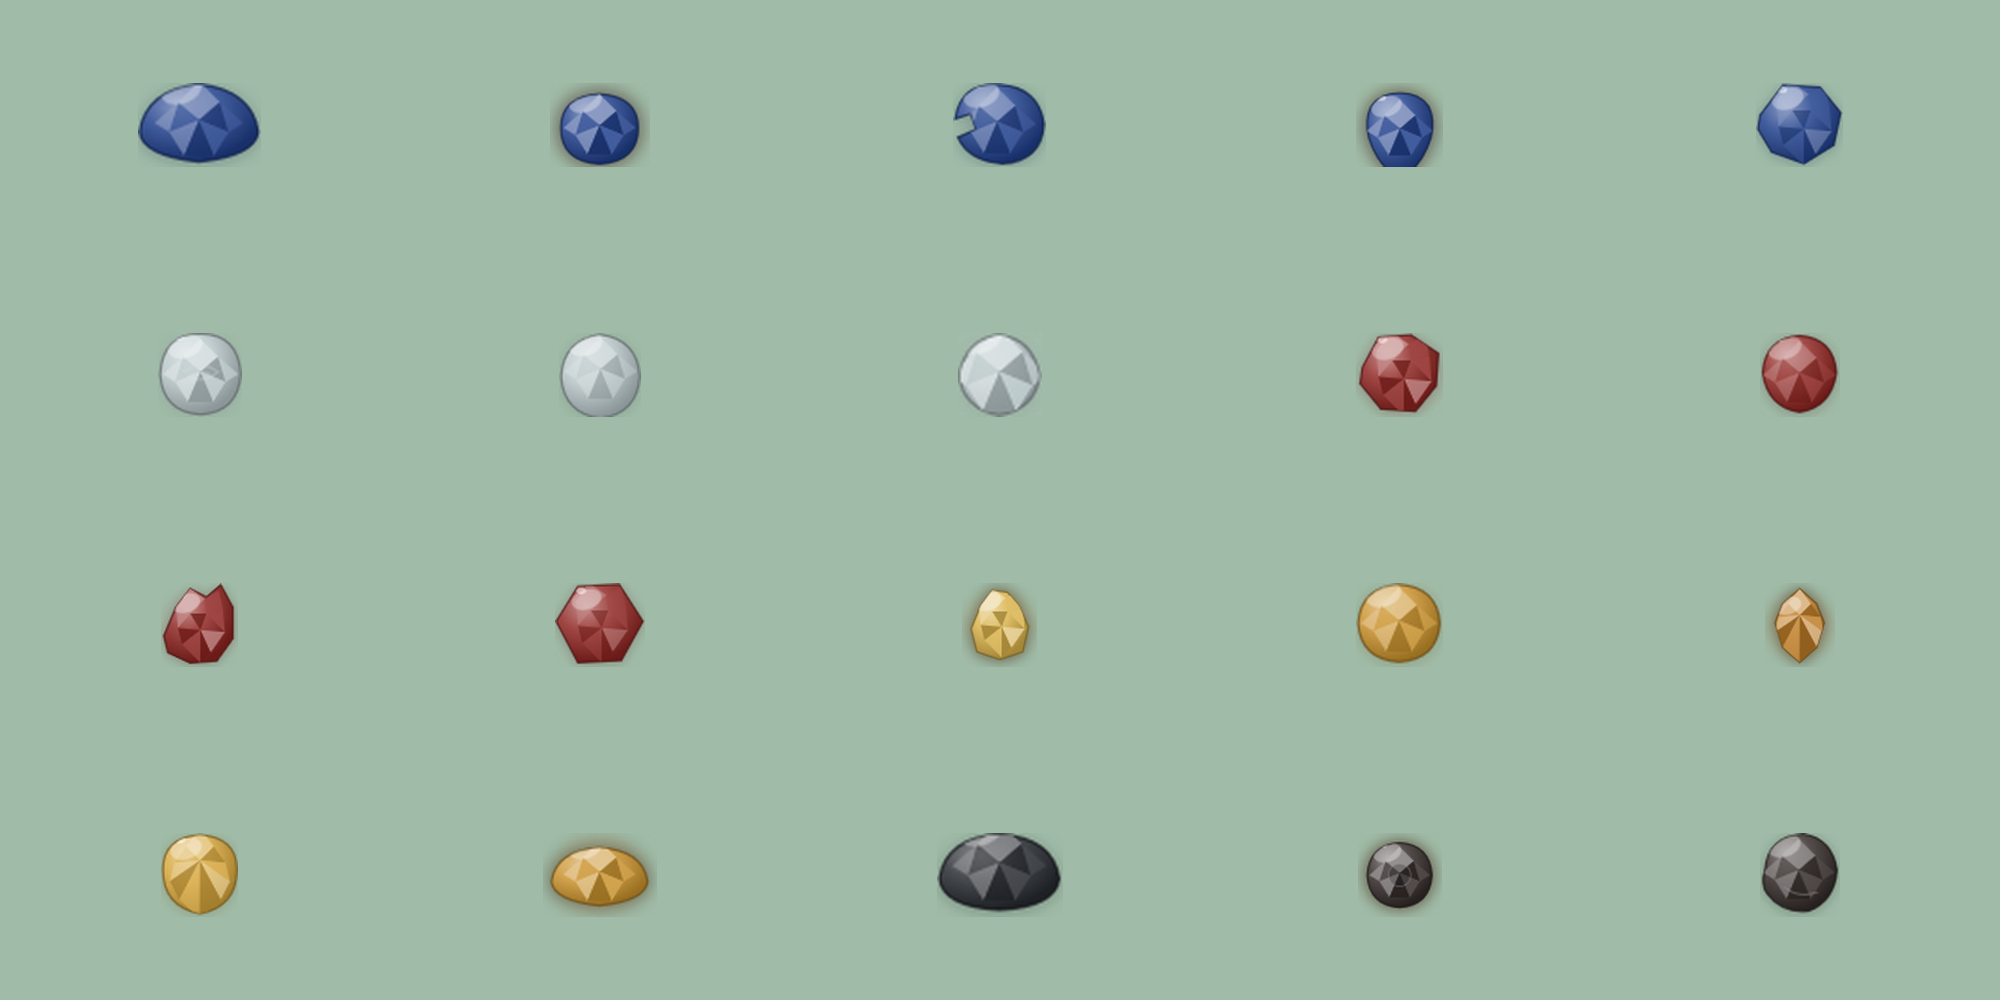
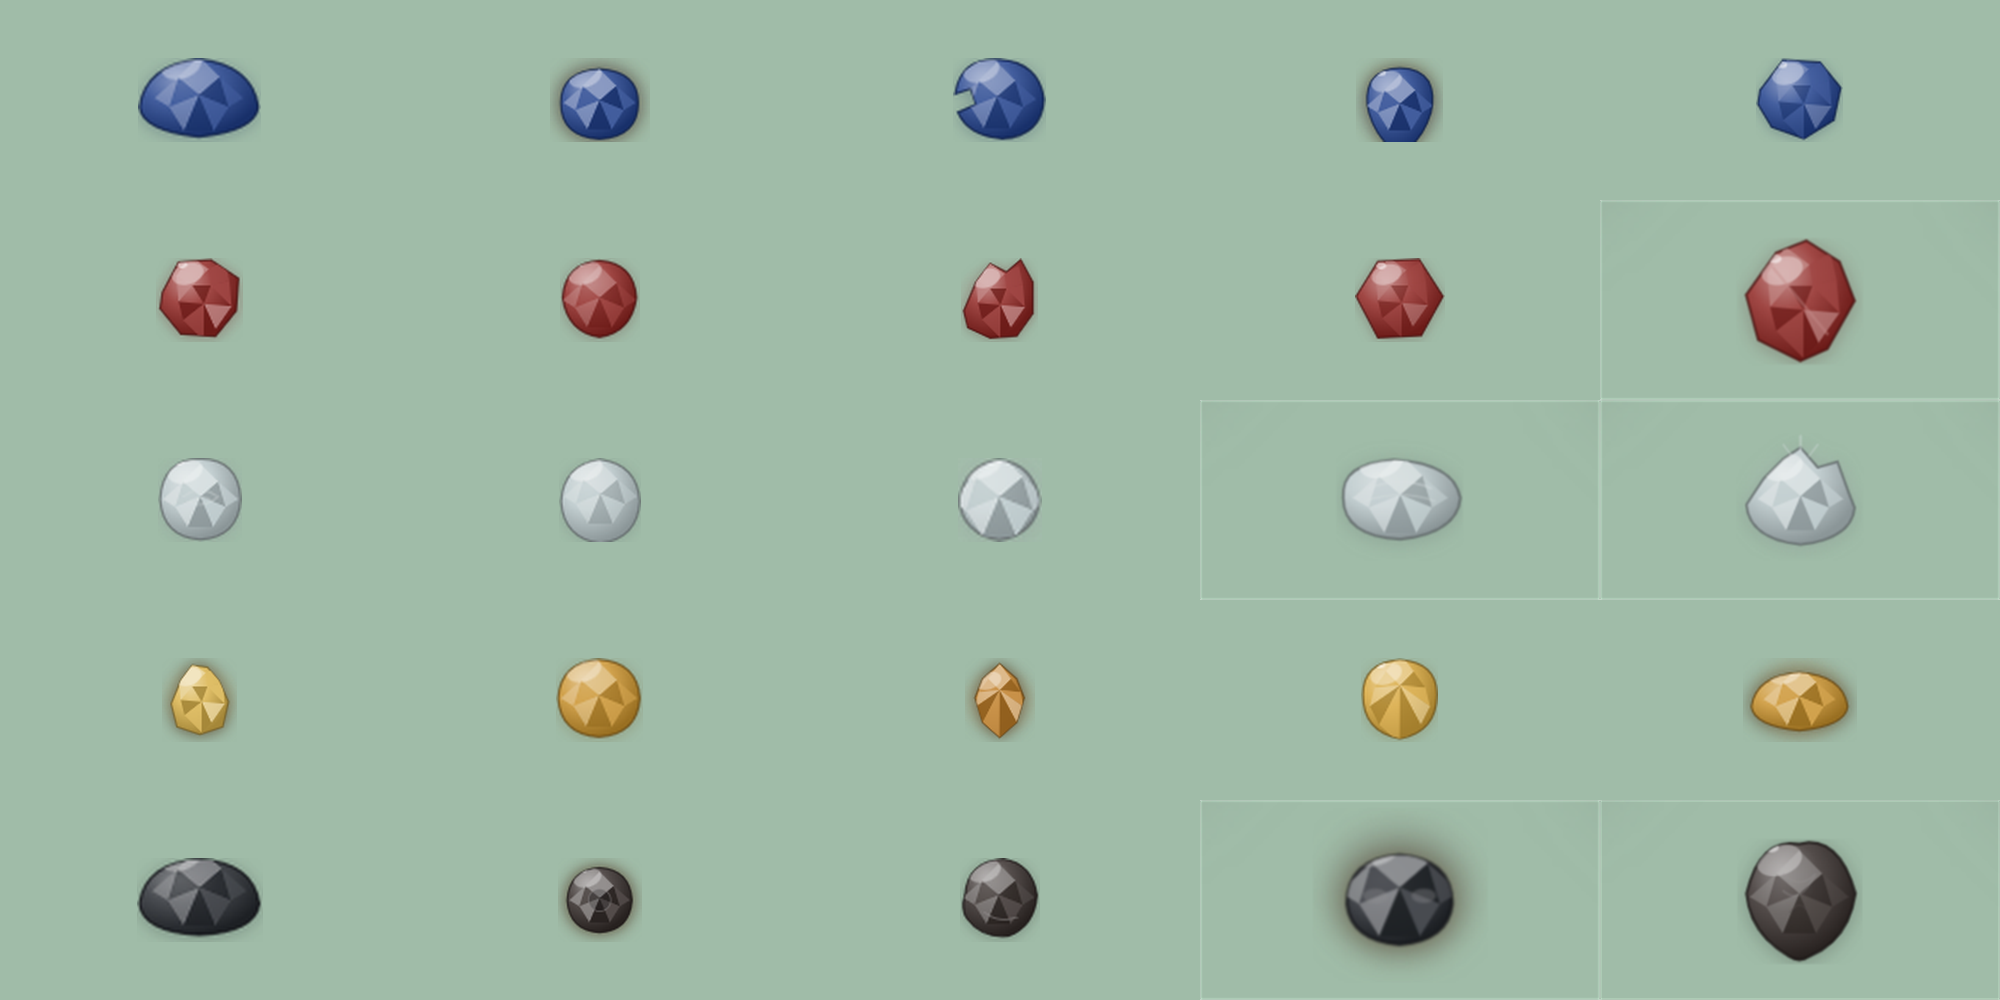
Update chatbot gem assets

diff --git a/2_avoha/ai/chatbot/main.py b/2_avoha/ai/chatbot/main.py
@@ -201,6 +201,22 @@ def is_video_url(text: str) -> bool:
     return False
 
 
+def is_audio_url(text: str) -> bool:
+    if not text or " " in text or "\n" in text:
+        return False
+    if not text.startswith("http"):
+        return False
+    lowered = text.lower()
+    audio_exts = (".mp3", ".m4a", ".aac", ".wav", ".ogg", ".oga", ".opus", ".amr", ".flac")
+    if any(ext in lowered for ext in audio_exts):
+        return True
+    if "talk.kakaocdn.net" in lowered and "/audio" in lowered:
+        return True
+    if "kakaocdn.net" in lowered and "audioplay" in lowered:
+        return True
+    return False
+
+
 def _db_get_today_count(user_id: str) -> int:
     """오늘(KST) 채집한 원석 수 (일상기록 제외). 에러 시 0 반환."""
     if not RAILWAY_DATABASE_URL:
@@ -231,10 +247,13 @@ EMOTION_TO_GEM = {
     "우울함": "우울함 조각", "외로움": "외로움 조각", "상실감": "상실감 조각",
     "서러움": "서러움 조각", "실망감": "실망감 조각",
     "걱정": "걱정 조각", "긴장감": "긴장감 조각", "위축감": "위축감 조각",
+    "초조": "초조 조각", "공포": "공포 조각",
     "짜증": "짜증 조각", "억울함": "억울함 조각", "화남": "화남 조각", "적대감": "적대감 조각",
+    "경멸": "경멸 조각",
     "즐거움": "즐거움 조각", "감사함": "감사함 조각", "설렘": "설렘 조각",
     "뿌듯함": "뿌듯함 조각", "편안함": "편안함 조각",
     "무기력함": "무기력함 조각", "공허함": "공허함 조각", "후회": "후회 조각",
+    "부끄러움": "부끄러움 조각", "혼란스러움": "혼란스러움 조각",
 }
 GEM_TO_EMOTION = {v: k for k, v in EMOTION_TO_GEM.items()}
 
@@ -269,10 +288,10 @@ CHATBOT_GEM_TO_EMOTION_CODE: dict[str, str] = {
 
 EMOTION_CATEGORIES = {
     "슬픔 계열": ["우울함", "외로움", "상실감", "서러움", "실망감"],
-    "불안/두려움 계열": ["걱정", "긴장감", "위축감"],
-    "분노 계열": ["짜증", "억울함", "화남", "적대감"],
+    "불안/두려움 계열": ["걱정", "긴장감", "위축감", "초조", "공포"],
+    "분노 계열": ["짜증", "억울함", "화남", "적대감", "경멸"],
     "기쁨/긍정 계열": ["즐거움", "감사함", "설렘", "뿌듯함", "편안함"],
-    "복잡/모호 계열": ["무기력함", "공허함", "후회"],
+    "복잡/모호 계열": ["무기력함", "공허함", "후회", "부끄러움", "혼란스러움"],
 }
 
 EMOTION_TO_REFLECTION_CATEGORY = {
@@ -315,6 +334,12 @@ VIDEO_NOT_SUPPORTED_MESSAGE = (
     "대신 한 줄 글이나 사진으로 적어주시면\n"
     "오늘의 감정 원석을 같이 찾아드릴게요. ✨"
 )
+AUDIO_NOT_SUPPORTED_MESSAGE = (
+    "음성으로 마음을 담아주셨네요. \n\n"
+    "아직은 음성을 함께 들여다보지는 못해요. \n"
+    "대신 한 줄 글이나 사진으로 적어주시면\n"
+    "오늘의 감정 원석을 같이 찾아드릴게요. ✨"
+)
 
 WEB_URL = "https://frontend-production-09f81.up.railway.app/login"
 _IMG_BASE = f"{ASSET_BASE_URL}/gems/"
@@ -330,10 +355,13 @@ GEM_IMAGE_URL = {
     "걱정 조각":     _IMG_BASE + "worry.png",
     "긴장감 조각":   _IMG_BASE + "tension.png",
     "위축감 조각":   _IMG_BASE + "timidity.png",
+    "초조 조각":     _IMG_BASE + "nervousness.png",
+    "공포 조각":     _IMG_BASE + "fear.png",
     "짜증 조각":     _IMG_BASE + "irritation.png",
     "억울함 조각":   _IMG_BASE + "resentment.png",
     "화남 조각":     _IMG_BASE + "anger.png",
     "적대감 조각":   _IMG_BASE + "hostility.png",
+    "경멸 조각":     _IMG_BASE + "contempt.png",
     "즐거움 조각":   _IMG_BASE + "joy.png",
     "감사함 조각":   _IMG_BASE + "gratitude.png",
     "설렘 조각":     _IMG_BASE + "flutter.png",
@@ -342,11 +370,13 @@ GEM_IMAGE_URL = {
     "무기력함 조각": _IMG_BASE + "lethargy.png",
     "공허함 조각":   _IMG_BASE + "emptiness.png",
     "후회 조각":     _IMG_BASE + "regret.png",
+    "부끄러움 조각": _IMG_BASE + "shame.png",
+    "혼란스러움 조각": _IMG_BASE + "confusion.png",
 }
 
 
-def _gem_image_url(gem: str) -> str:
-    return GEM_IMAGE_URL.get(gem) or DEFAULT_CARD_IMAGE
+def _thumbnail(url: str | None) -> dict:
+    return {"thumbnail": {"imageUrl": url}} if url else {}
 
 BASE_QUICK_REPLIES = [
     {"label": "단순 모드", "action": "message", "messageText": "단순모드"},
@@ -556,6 +586,16 @@ def classify_emotion(
         "   '행복하다', '좋다', '기분 좋다', '신난다'는 즐거움으로 분류해.\n"
         "   '힘들다', '힘들어'는 단순 사실이 아니라 감정/상태 표현으로 보고 문맥에 따라 무기력함, 걱정, 후회 등으로 분류해.\n"
         "   예: '지금 너무 많이 먹어서 행복하고 힘들어' → 즐거움, 무기력함\n"
+        "   '눈물이 날 것 같다', '울컥하다'는 우울함보다 서러움 후보로 우선 검토해.\n"
+        "   '뒤처진 것 같다', '나만 못한 것 같다', '내가 작아진다'는 위축감 후보로 우선 검토해.\n"
+        "   '마음이 무겁다', '가라앉는다'는 걱정보다 우울함/공허함 후보로 우선 검토해.\n"
+        "   '안 괜찮다', '괜찮다고 했지만 사실 아니다'는 서러움/우울함 후보로 검토해.\n"
+        "   '억울함'은 부당함, 왜 나만, 내 잘못이 아닌데 같은 단서가 있을 때만 선택해.\n"
+        "   '하찮게 느껴진다', '깔보게 된다', '정떨어진다', '한심하다'는 경멸 후보로 검토해.\n"
+        "   '조마조마하다', '안절부절못하다', '가만히 못 있겠다'는 초조 후보로 검토해.\n"
+        "   '무섭다', '두렵다', '공포스럽다', '겁난다'는 공포 후보로 검토해.\n"
+        "   '창피하다', '민망하다', '쪽팔리다'는 부끄러움 후보로 검토해.\n"
+        "   '뭐가 뭔지 모르겠다', '머리가 복잡하다', '갈피를 못 잡겠다'는 혼란스러움 후보로 검토해.\n"
         "4. 사용자 문장에는 오타, 받침 실수, 음절 치환이 있을 수 있어. 명백한 오타는 문맥상 자연스러운 한국어로 보정해서 해석해.\n"
         "   예: '힘덜어'는 '힘들어'로 해석해.\n"
         f"감정 목록: {emotion_list}\n"
@@ -659,6 +699,15 @@ def supervisor_check_classification(
         "- '행복하다', '좋다', '기분 좋다', '신난다'는 즐거움 감정 단서로 본다.\n"
         "- '힘들다', '힘들어'는 단순 사실이 아니라 감정/상태 표현으로 보고 문맥에 따라 무기력함, 걱정, 후회 등으로 검토한다.\n"
         "- 예: '지금 너무 많이 먹어서 행복하고 힘들어'는 감정 맥락이 있으므로 즐거움과 무기력함 후보를 검토한다.\n"
+        "- '눈물이 날 것 같다', '울컥하다'는 우울함보다 서러움 후보로 우선 검토한다.\n"
+        "- '뒤처진 것 같다', '나만 못한 것 같다', '내가 작아진다'는 위축감 후보로 우선 검토한다.\n"
+        "- '마음이 무겁다', '가라앉는다'는 걱정보다 우울함/공허함 후보로 우선 검토한다.\n"
+        "- '억울함'은 부당함, 왜 나만, 내 잘못이 아닌데 같은 단서가 있을 때만 선택한다.\n"
+        "- 경멸은 하찮게 느낌, 깔봄, 정떨어짐, 한심함 단서가 있을 때 검토한다.\n"
+        "- 초조는 조마조마함, 안절부절못함, 가만히 못 있겠음 단서가 있을 때 검토한다.\n"
+        "- 공포는 무서움, 두려움, 공포스러움, 겁남 단서가 있을 때 검토한다.\n"
+        "- 부끄러움은 창피함, 민망함, 쪽팔림 단서가 있을 때 검토한다.\n"
+        "- 혼란스러움은 뭐가 뭔지 모름, 머리가 복잡함, 갈피를 못 잡음 단서가 있을 때 검토한다.\n"
         "- 발화에 감정 맥락이 있는데 '일상기록' 또는 '기록아님'으로 빠졌는지 확인한다.\n"
         "- 단순 사실 나열인데 감정 원석으로 과잉 분류했는지 확인한다.\n"
         "- 허용 목록 밖의 값은 실패로 본다.\n"
@@ -1342,15 +1391,16 @@ def kakao_save_complete(gem: str, today_count: int, user_id: str = "", alert_msg
     )
     if alert_msg:
         description += f"\n\n{alert_msg.lstrip()}"
+    card = {
+        "title": f"{display}{_josa_eul(display)} 수집했어요!",
+        "description": description,
+        "buttons": [{"action": "webLink", "label": "조각 기록들 살펴보기", "webLinkUrl": link_url}],
+    }
+    card.update(_thumbnail(GEM_IMAGE_URL.get(gem)))
     return {
         "version": "2.0",
         "template": {
-            "outputs": [{"basicCard": {
-                "title": f"{display}{_josa_eul(display)} 수집했어요!",
-                "description": description,
-                "thumbnail": {"imageUrl": _gem_image_url(gem)},
-                "buttons": [{"action": "webLink", "label": "조각 기록들 살펴보기", "webLinkUrl": link_url}],
-            }}],
+            "outputs": [{"basicCard": card}],
             "quickReplies": BASE_QUICK_REPLIES,
         },
     }
@@ -1768,7 +1818,7 @@ def kakao_today_records(user_id: str) -> dict:
             f"지금까지 총 {emotion_count}개의 감정원석과 {daily_count}개의 일상을 저장했어요.\n\n"
             "웹에서 오늘까지 쌓아온 모든 기록과 분석을 만나보세요!"
         ),
-        "thumbnail": {"imageUrl": ALL_GEMS_IMAGE},
+        "thumbnail": {"imageUrl": MASCOT_IMAGE},
         "buttons": [{"action": "webLink", "label": "웹 방문하기", "webLinkUrl": link_url}],
     }]
 
@@ -1790,16 +1840,17 @@ def kakao_today_records(user_id: str) -> dict:
             image_url = record["image_url"] or MASCOT_IMAGE
         else:
             title = f"{record['saved_time']} {gem}"
-            image_url = record["image_url"] or _gem_image_url(gem)
+            image_url = record["image_url"] or GEM_IMAGE_URL.get(gem)
         description = _truncate_text(record["record_text"], 160)
         if not description:
             description = "사진으로 저장한 기록이에요." if record["has_photo"] else "내용 없이 저장된 기록이에요."
-        items.append({
+        item = {
             "title": title.strip(),
             "description": description,
-            "thumbnail": {"imageUrl": image_url},
             "buttons": [{"action": "webLink", "label": "웹 방문하기", "webLinkUrl": link_url}],
-        })
+        }
+        item.update(_thumbnail(image_url))
+        items.append(item)
 
     return {
         "version": "2.0",
@@ -2349,12 +2400,12 @@ async def webhook(request: Request, background_tasks: BackgroundTasks):
                 "outputs": [
                     {"simpleText": {"text": (
                         "기록을 통해 채집할 수 있는 감정 원석들이에요.\n\n"
-                        "감정 원석은 총 20종,\n크게 다섯 가지 결을 가지고 있어요.\n\n"
+                        "감정 원석은 총 25종,\n크게 다섯 가지 결을 가지고 있어요.\n\n"
                         "💙 슬픔의 결\n우울함 조각 · 외로움 조각 · 상실감 조각 · 서러움 조각 · 실망감 조각\n위로받고 싶은 일상의 순간들이 담겨요.\n\n"
-                        "🤍 불안/두려움의 결\n걱정 조각 · 긴장감 조각 · 위축감 조각\n마음이 팽팽해지는 순간들이 담겨요.\n\n"
-                        "🧡 분노의 결\n짜증 조각 · 억울함 조각 · 화남 조각 · 적대감 조각\n뜨겁고 단단한 감정들이 담겨요.\n\n"
+                        "🤍 불안/두려움의 결\n걱정 조각 · 긴장감 조각 · 위축감 조각 · 초조 조각 · 공포 조각\n마음이 팽팽해지는 순간들이 담겨요.\n\n"
+                        "🧡 분노의 결\n짜증 조각 · 억울함 조각 · 화남 조각 · 적대감 조각 · 경멸 조각\n뜨겁고 단단한 감정들이 담겨요.\n\n"
                         "💛 기쁨/긍정의 결\n즐거움 조각 · 감사함 조각 · 설렘 조각 · 뿌듯함 조각 · 편안함 조각\n따뜻하고 빛나는 순간들이 담겨요.\n\n"
-                        "🩶 복잡/모호의 결\n무기력함 조각 · 공허함 조각 · 후회 조각\n잘 정의되지 않는 감정들이 담겨요.\n\n"
+                        "🩶 복잡/모호의 결\n무기력함 조각 · 공허함 조각 · 후회 조각 · 부끄러움 조각 · 혼란스러움 조각\n잘 정의되지 않는 감정들이 담겨요.\n\n"
                         "각 원석은 강화를 통해 보석으로 세공할 수 있어요."
                     )}},
                     {"basicCard": {
@@ -2437,6 +2488,14 @@ async def webhook(request: Request, background_tasks: BackgroundTasks):
             )
         pending_reflection.pop(user_id, None)
         return JSONResponse(kakao_response("잘 담아뒀어요 ✎", custom_replies=BASE_QUICK_REPLIES))
+
+    # 음성 전송 (현재는 분석 미지원 → 안내만 응답)
+    if is_audio_url(utterance):
+        print(f"[audio detected] user={user_id}, utterance={utterance}")
+        return JSONResponse(kakao_response(
+            AUDIO_NOT_SUPPORTED_MESSAGE,
+            custom_replies=BASE_QUICK_REPLIES,
+        ))
 
     # 영상 전송 (현재는 분석 미지원 → 안내만 응답)
     if is_video_url(utterance):

diff --git a/2_avoha/ai/chatbot/README.md b/2_avoha/ai/chatbot/README.md
@@ -101,10 +101,13 @@ SUPERVISOR_ENABLED=false
 | 불안/두려움 계열 | 걱정 | 걱정 조각 | worry.png |
 | 불안/두려움 계열 | 긴장감 | 긴장감 조각 | tension.png |
 | 불안/두려움 계열 | 위축감 | 위축감 조각 | timidity.png |
+| 불안/두려움 계열 | 초조 | 초조 조각 | nervousness.png |
+| 불안/두려움 계열 | 공포 | 공포 조각 | fear.png |
 | 분노 계열 | 짜증 | 짜증 조각 | irritation.png |
 | 분노 계열 | 억울함 | 억울함 조각 | resentment.png |
 | 분노 계열 | 화남 | 화남 조각 | anger.png |
 | 분노 계열 | 적대감 | 적대감 조각 | hostility.png |
+| 분노 계열 | 경멸 | 경멸 조각 | contempt.png |
 | 기쁨/긍정 계열 | 즐거움 | 즐거움 조각 | joy.png |
 | 기쁨/긍정 계열 | 감사함 | 감사함 조각 | gratitude.png |
 | 기쁨/긍정 계열 | 설렘 | 설렘 조각 | flutter.png |
@@ -113,8 +116,10 @@ SUPERVISOR_ENABLED=false
 | 복잡/모호 계열 | 무기력함 | 무기력함 조각 | lethargy.png |
 | 복잡/모호 계열 | 공허함 | 공허함 조각 | emptiness.png |
 | 복잡/모호 계열 | 후회 | 후회 조각 | regret.png |
+| 복잡/모호 계열 | 부끄러움 | 부끄러움 조각 | shame.png |
+| 복잡/모호 계열 | 혼란스러움 | 혼란스러움 조각 | confusion.png |
 
-`CHATBOT_GEM_TO_EMOTION_CODE`는 챗봇의 20개 원석을 웹 인벤토리의 emotion code로 매핑합니다.
+`CHATBOT_GEM_TO_EMOTION_CODE`는 챗봇의 원석을 웹 인벤토리의 emotion code로 매핑합니다.
 
 ## 환경 변수
 